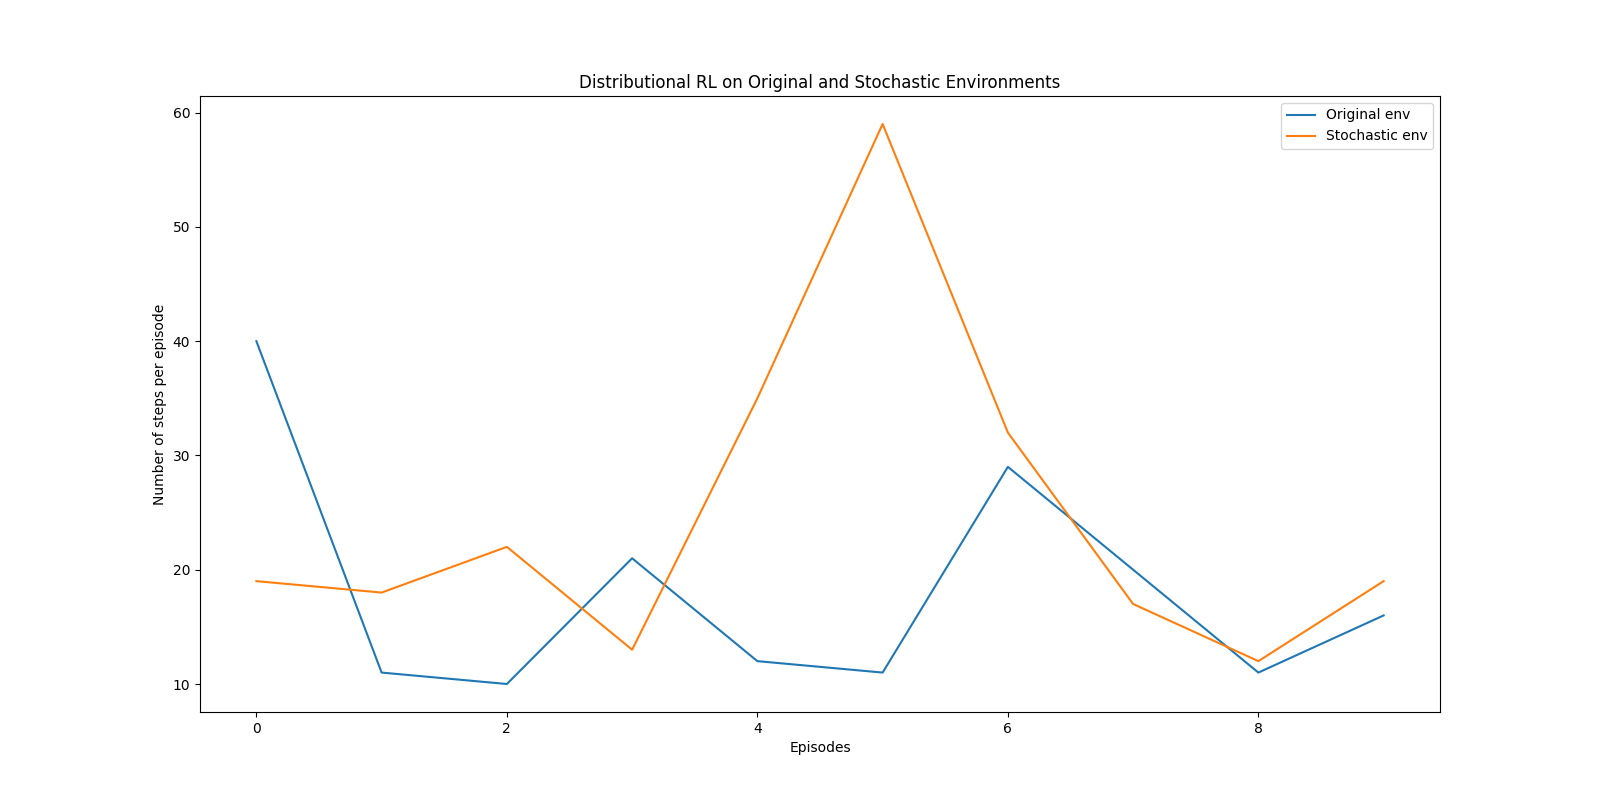
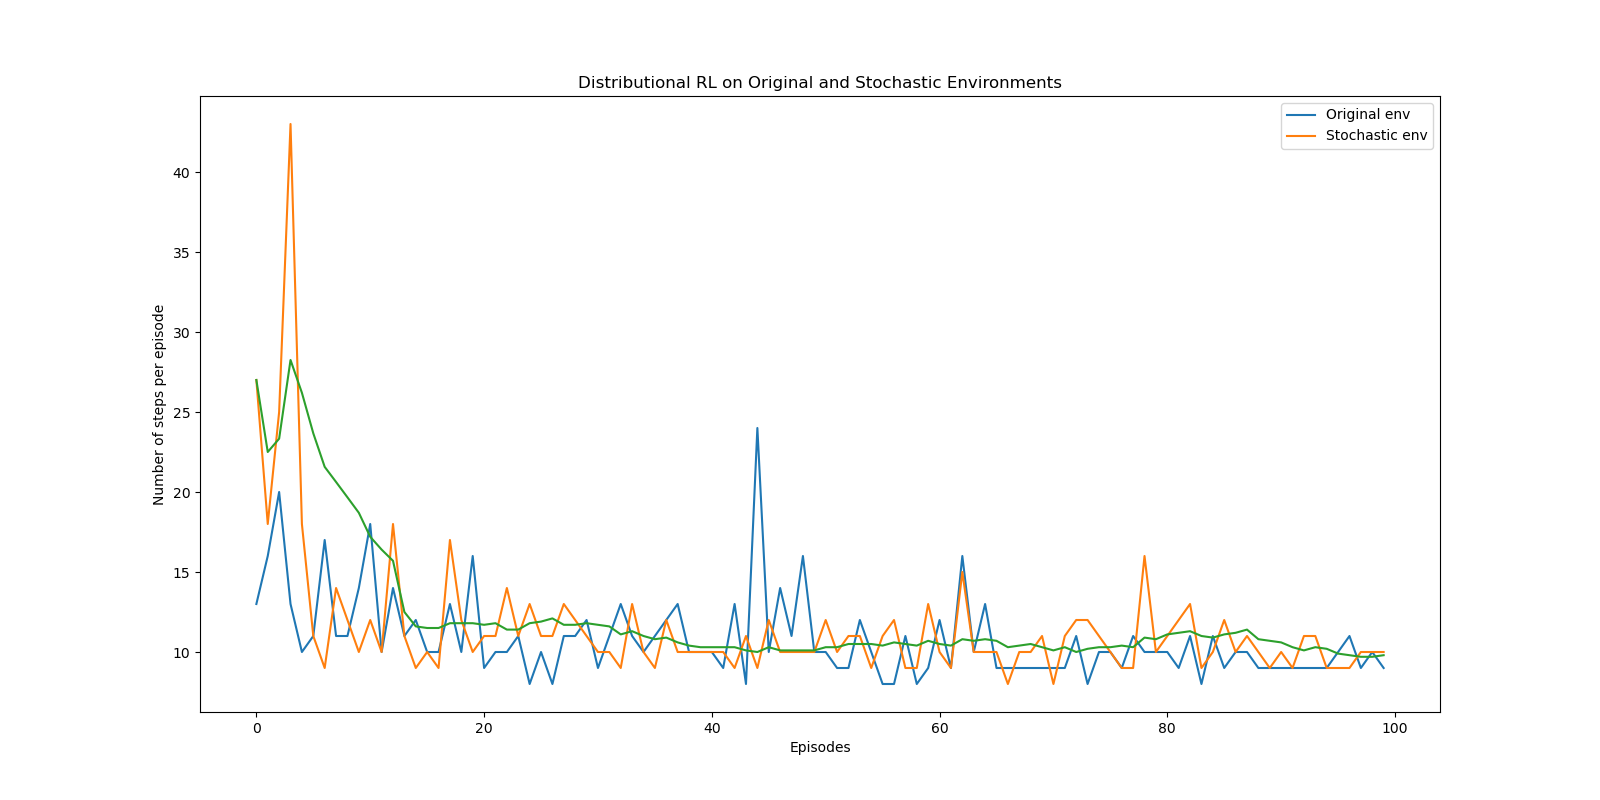
testing pycharm

diff --git a/Comparison/c51_test.py b/Comparison/c51_test.py
@@ -1,10 +1,13 @@
 # import wandb
 import tensorflow as tf
 from tensorflow.keras.layers import Input, Dense, Reshape, Softmax
+import tensorflow_probability as tfp
 from tensorflow.keras.optimizers import Adam
-from env import *
-from tqdm import trange
+import matplotlib.pyplot as plt
 
+plt.style.use("ggplot")
+import json
+import numpy as np
 
 import gym
 import argparse
@@ -12,23 +15,23 @@ import numpy as np
 from collections import deque
 import random
 import math
-import matplotlib.pyplot as plt
+from tqdm import trange
 
-# tf.keras.backend.set_floatx('float32')
+tf.keras.backend.set_floatx('float64')
 # wandb.init(name='C51', project="dist-rl-tf2")
 
 parser = argparse.ArgumentParser()
 parser.add_argument('--gamma', type=float, default=0.99)
 parser.add_argument('--lr', type=float, default=0.0001)
-parser.add_argument('--batch_size', type=int, default=32)
-parser.add_argument('--atoms', type=int, default=32)
+parser.add_argument('--batch_size', type=int, default=8)
+parser.add_argument('--atoms', type=int, default=8)
 parser.add_argument('--v_min', type=float, default=-5.)
 parser.add_argument('--v_max', type=float, default=5.)
 
 args = parser.parse_args()
 
 
-class Dist_ReplayBuffer:
+class ReplayBuffer:
     def __init__(self, capacity=10000):
         self.buffer = deque(maxlen=capacity)
 
@@ -54,7 +57,7 @@ class ActionValueModel:
         self.atoms = args.atoms
         self.z = z
 
-        self.opt = Adam(args.lr)
+        self.opt = tf.keras.optimizers.Adam(args.lr)
         self.criterion = tf.keras.losses.CategoricalCrossentropy()
         self.model = self.create_model()
 
@@ -94,17 +97,11 @@ class ActionValueModel:
 
 
 class Agent:
-    def __init__(self, env, episodes, id):
+    def __init__(self, env):
         self.env = env
-        self.id = id
-        if self.id == 'FourRooms-v0':
-            env.reset()
-            shape = env.render().flatten().shape
-            self.state_dim = shape[0]
-        else:
-            self.state_dim = env.observation_space.shape[0]
+        self.state_dim = env.observation_space.shape[0]
         self.action_dim = env.action_space.n
-        self.buffer = Dist_ReplayBuffer()
+        self.buffer = ReplayBuffer()
         self.batch_size = args.batch_size
         self.v_max = args.v_max
         self.v_min = args.v_min
@@ -116,7 +113,6 @@ class Agent:
         self.q_target = ActionValueModel(
             self.state_dim, self.action_dim, self.z)
         self.target_update()
-        self.episodes = episodes
 
     def target_update(self):
         weights = self.q.model.get_weights()
@@ -151,23 +147,17 @@ class Agent:
                         u)] += z_[next_actions[i]][i][j] * (bj - l)
         self.q.train(states, m_prob)
 
-    def train(self, max_epsiodes=500):
-        output = []
+    def train(self, rewards_recorder, trial, exp, max_epsiodes=500):
+        rewards_vec = []
+        steps_vec = []
         for ep in range(max_epsiodes):
-            if self.id == 'FourRooms-v0':
-                self.env.reset()
-                state = self.env.render()
-            else:
-                state = self.env.reset()
             done, total_reward, steps = False, 0, 0
-
-            num_steps = 0
+            state = self.env.reset()
             while not done:
-                num_steps += 1
                 action = self.q.get_action(state, ep)
                 next_state, reward, done, _ = self.env.step(action)
                 self.buffer.put(state, action, -
-                                1 if done else 0, next_state, done)
+                1 if done else 0, next_state, done)
 
                 if self.buffer.size() > 1000:
                     self.replay()
@@ -177,95 +167,71 @@ class Agent:
                 state = next_state
                 total_reward += reward
                 steps += 1
-                if done:
-                    output.append(num_steps)
             # wandb.log({'reward': total_reward})
-            if ep % 2 == 0:
-                print('EP{} reward={}'.format(ep, total_reward))
-        return output
+            steps_vec.append(steps)
+            rewards_vec.append(total_reward)
+
+            # print('EP{} reward={}'.format(ep, total_reward))
+        rewards_recorder[trial,] = rewards_vec
+        save_ndarray(trial, max_epsiodes, f'{exp}_rewards', rewards_recorder)
+        return rewards_vec, steps_vec
 
 
-def rolling_average(data, *, window_size=10):
-    """Smoothen the 1-d data array using a rollin average.
+def save_ndarray(trial, episode, name, ndarray):
+    with open(f'savedData/t{trial}_eps{episode}_{name}.json', 'w') as f:
+        json.dump(ndarray.tolist(), f)
 
-    Args:
-        data: 1-d numpy.array
-        window_size: size of the smoothing window
 
-    Returns:
-        smooth_data: a 1-d numpy.array with the same size as data
-    """
-    assert data.ndim == 1
-    kernel = np.ones(window_size)
-    smooth_data = np.convolve(data, kernel) / np.convolve(
-        np.ones_like(data), kernel
-    )
-    return smooth_data[: -window_size + 1]
+class RandomActionWrapper(gym.ActionWrapper):
+    def __init__(self, env, epsilon=0.1):
+        super(RandomActionWrapper, self).__init__(env)
+        self.epsilon = epsilon
+
+    def action(self, action):
+        if random.random() < self.epsilon:
+            return self.env.action_space.sample()
+        return action
+
+    def reverse_action(self, action):
+        pass
 
 
 def main():
-    TRIALS = 10
-    EPISODES = 150
+    env = gym.make('CartPole-v0')
+    sEnv = RandomActionWrapper(gym.make('CartPole-v0'))
 
-    env_id = "CartPole-v0"
-    env = gym.make(env_id)
-    print(f'Running {env_id}')
-    data = np.zeros((TRIALS, EPISODES))
-    for t in range(TRIALS):
-        print(f'{env_id} trial {t}')
-        agent = Agent(env, EPISODES, 'env_id')
-        data[t] = agent.train(EPISODES)
 
-    plt.figure(figsize=(16, 8))
-    avg = data.mean(axis=0)
-    std = data.std(axis=0)
-    length = len(avg)
-    y_err = 1.96 * std * np.sqrt(1 / length)
-    plt.fill_between(np.linspace(0, length - 1, length), avg - y_err, avg + y_err, alpha=0.2)
+    n_eps = 200
+    n_trials = 100
+    rewards_mat = np.zeros((n_trials, n_eps))
+    # steps_mat = np.zeros((n_trials, n_eps))
+    s_rewards_mat = np.zeros((n_trials, n_eps))
+    # s_steps_mat = np.zeros((n_trials, n_eps))
 
-    plt.plot(avg, label='Original env')
-    # plt.plot(rolling_average(avg))
-    plt.xlabel("Episodes")
-    plt.ylabel("Number of steps per episode")
-    plt.title(f'Distributional RL on Original and Stochastic Environments')
-
-    from typing import TypeVar
-    import random
-
-    Action = TypeVar('Action')
-
-    class RandomActionWrapper(gym.ActionWrapper):
-        def __init__(self, env, epsilon=0.1):
-            super(RandomActionWrapper, self).__init__(env)
-            self.epsilon = epsilon
-
-        def action(self, action):
-            if random.random() < self.epsilon:
-                # print("Random!")
-                return self.env.action_space.sample()
-            return action
-
-    env_id = "CartPole-v0"
-    env = RandomActionWrapper(gym.make(env_id))
-    print(f'Running {env_id}')
-    data = np.zeros((TRIALS, EPISODES))
-    for t in range(TRIALS):
-        print(f'{env_id} trial {t}')
-        agent = Agent(env, EPISODES, 'env_id')
-        data[t] = agent.train(EPISODES)
-
-    avg = data.mean(axis=0)
-    std = data.std(axis=0)
-    length = len(avg)
-    y_err = 1.96 * std * np.sqrt(1 / length)
-    plt.fill_between(np.linspace(0, length - 1, length), avg - y_err, avg + y_err, alpha=0.2)
-
-    plt.plot(avg, label='Stochastic env')
-    # plt.plot(rolling_average(avg))
-    plt.legend()  # loc=3, fontsize='small')
-    plt.savefig(f'Pics/Distributional RL on Original and Stochastic Environments {TRIALS} runs {EPISODES} episodes.png')
-
-    plt.show()
+    for t in trange(n_trials):
+        agent = Agent(env)
+        sAgent = Agent(sEnv)
+        rewards, steps = agent.train(rewards_recorder=rewards_mat, trial=t, exp="det",
+                                     max_epsiodes=n_eps)
+        s_rewards, s_steps = sAgent.train(rewards_recorder=s_rewards_mat, trial=t,
+                                          exp="sto", max_epsiodes=n_eps)
+    # plt.figure()
+    # ax = plt.axes()
+    # ax.plot([i for i in range(len(rewards_vec))], rewards_vec)
+    # ax.set_title("rewards")
+    # plt.figure()
+    # ax2 = plt.axes()
+    # ax2.plot([i for i in range(len(steps_vec))], steps_vec)
+    # ax2.set_title("steps")
+    # plt.figure()
+    # ax3 = plt.axes()
+    # ax3.plot([i for i in range(len(s_rewards_vec))], s_rewards_vec)
+    # ax3.set_title("rewards (stochastic)")
+    # plt.figure()
+    # ax4 = plt.axes()
+    # ax4.plot([i for i in range(len(s_steps_vec))], s_steps_vec)
+    # ax4.set_title("steps (stochastic)")
+    # plt.show()
 
 
 if __name__ == "__main__":

diff --git a/Comparison/plot_c51_test.py b/Comparison/plot_c51_test.py
@@ -1,0 +1,35 @@
+import numpy as np
+import json
+import matplotlib.pyplot as plt
+plt.style.use('ggplot')
+
+def main():
+    n_trials = 5
+    with open('savedData/t4_eps300_det_rewards.json', 'r') as f:
+        data = np.array(json.load(f))
+    with open('savedData/t4_eps300_sto_rewards.json', 'r') as f:
+        s_data = np.array(json.load(f))
+    v_data = data[0:n_trials,]
+    v_data_mean = v_data.mean(axis=0)
+    v_data_se = 1.96 * v_data.std(axis=0) / np.sqrt(n_trials)
+    v_s_data = s_data[0:n_trials, ]
+    v_s_data_mean = v_s_data.mean(axis=0)
+    v_s_data_se = 1.96 * v_s_data.std(axis=0) / np.sqrt(n_trials)
+
+    plt.figure()
+    ax = plt.axes()
+    X = [i for i in range(len(v_data_mean))]
+    ax.plot(X, v_data_mean, label="det")
+    ax.plot(X, v_s_data_mean, label="sto")
+    ax.fill_between(X, v_data_mean+v_data_se, v_data_mean-v_data_se, alpha=0.2)
+    ax.fill_between(X, v_s_data_mean + v_s_data_se, v_s_data_mean - v_s_data_se, alpha=0.2)
+    ax.set_xlabel("episode")
+    ax.set_ylabel("rewards")
+    plt.title("distRL")
+    plt.legend()
+    plt.show()
+    print(v_data_mean)
+
+
+if __name__ == "__main__":
+    main()

diff --git a/envStochastic.py b/envStochastic.py
@@ -1,0 +1,27 @@
+from gym import Env, spaces, ActionWrapper
+import env
+import numpy as np
+
+
+class CartPoleWrapper(ActionWrapper):
+    """Wrapper for CartPoleEnv to introduce stochasticity.
+    To use this wrapper, create the environment using gym.make() and wrap the environment with this class.
+    Ex) env = gym.make('CartPole-v0')
+        env = CartPoleWrapper(env)
+    """
+
+    def __init__(self, env):
+        super().__init__(env)
+        # Since this wrapper changes the observation space from a tuple of scalars to a single scalar,
+        # need to change the observation_space
+        # self.observation_space = spaces.Discrete(self.cols * self.rows)
+
+    def action(self, action):
+        if np.random.random() < 0.2:
+            action = abs(action - 1)
+        return action
+
+    def reverse_action(self, action):
+        pass
+
+

diff --git a/test.py b/test.py
@@ -153,17 +153,16 @@ def train(model, EPISODES, env, replay_buffer, optimizer):
 
     return all_rewards, losses, output
 
-
 """ENV SET UP (start)"""
 # Cart Pole Environment
-# from env import *
-# register_env()
-# env_id = "FourRooms-v0"
-# # env_id = "CartPole-v0"
-# env = gym.make(env_id)
-# env.reset()
-#
-# print(env.observation_space.shape)
+from env import *
+register_env()
+env_id = "FourRooms-v0"
+# env_id = "CartPole-v0"
+env = gym.make(env_id)
+env.reset()
+print(env.render())
+print(env.observation_space.shape)
 
 
 # Epsilon greedy exploration
